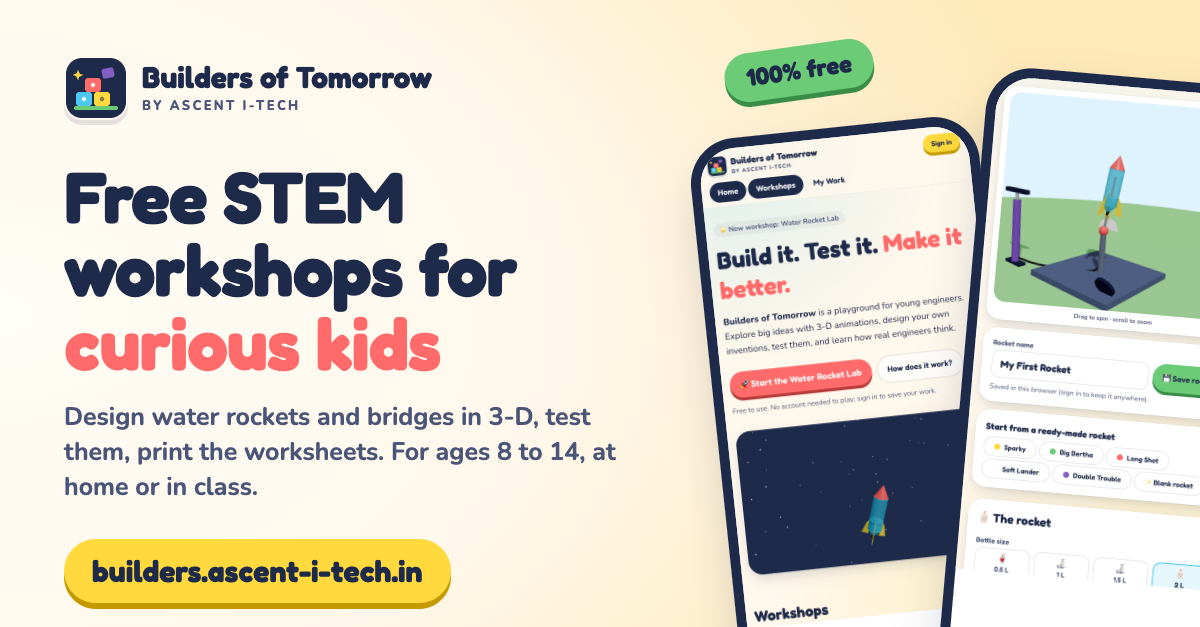
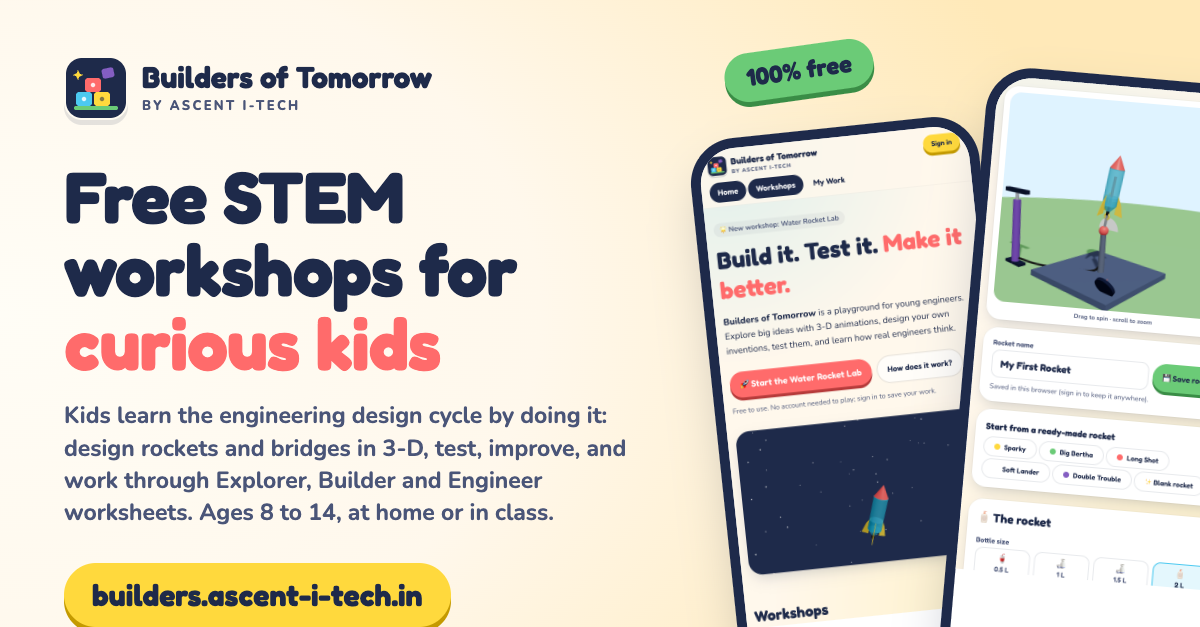
Launch posts: lead with the design cycle and worksheets; "A project by Ascent"
Reel now has a design-cycle scene (Ask, Imagine, Plan, Create, Test,
Improve) and a worksheets scene naming the Explorer, Builder and Engineer
levels; the card footer reads "A project by Ascent Intelligent
Technologies". Caption, LinkedIn post and banner copy expanded to explain
the engineering design cycle and the three worksheet levels.

Changed region(s): [[0.0308, 0.6364, 0.5242, 1.0]]

diff --git a/marketing/launch-2026-10/linkedin-post.md b/marketing/launch-2026-10/linkedin-post.md
@@ -9,23 +9,25 @@ Free STEM workshops for curious kids. Live today: https://builders.ascent-i-tech
 
 At Ascent Intelligent Technologies we have been building something small and useful: Builders of Tomorrow, a free website where children aged 8 to 14 learn how engineers think by actually doing it.
 
-In the Water Rocket Lab they choose a bottle, fins and a nose cone, pump up the pressure and launch a 3-D rocket. Change one thing, launch again, and the fair-test habit builds itself. In Bridge Builder they glue craft sticks into triangles and load the bridge until it creaks, with the forces coloured so they can see which piece is pulled and which is pushed.
+Every workshop is built around the engineering design cycle. Kids ask what the problem is, imagine several answers, plan one, create it, test it and improve it, then go round again. The site walks them through each step with a checklist, and the simulations are where the loop happens: in the Water Rocket Lab they choose a bottle, fins and a nose cone, pump up the pressure and launch a 3-D rocket; change one thing, launch again, and the fair-test habit builds itself. In Bridge Builder they glue craft sticks into triangles and load the bridge until it creaks, with the forces coloured so they can see which piece is pulled and which is pushed.
+
+The worksheets are what make the learning stick. Each workshop has them at three levels: Explorer (Rocket Detective: what makes it fly? Triangle Power), Builder (The Water Experiment, Pressure Power, The Strongest Shape Test) and Engineer (Fair Test and Variables, Budget Engineer, an Engineering Design Journal). They ask children to predict before they test, record what they measured, explain what happened and plan the next improvement. Fill them in on screen, where they save automatically, or print them for a class.
 
 What makes it work for grown-ups:
 
-• 100% free, no ads, no account needed to play
-• Printable worksheets for every workshop, so it fits a classroom or a kitchen table
+• No ads, no cost, no account needed to play
+• Worksheets for every workshop at three levels, so it fits a classroom or a kitchen table
 • Simulations are calibrated against real-world numbers and show their assumptions, so older kids can go deeper into the maths
-• Sign in with an email code (or Google) to save designs; under-13s use a parent or teacher email
+• Sign in with an email code (or Google) to save designs and worksheet answers; under-13s use a parent or teacher email
 
 If you teach, parent or mentor a young builder, I would love you to try it and tell me what breaks or what you would like to see next. More workshops are on the way.
 
 👉 https://builders.ascent-i-tech.in
 
-#STEM #STEMEducation #EdTech #EngineeringForKids #ScienceEducation #Teachers #Parenting #Homeschool #MakerEducation #AscentITech
+#STEM #STEMEducation #EngineeringDesignCycle #EdTech #EngineeringForKids #ScienceEducation #Teachers #Parenting #Homeschool #MakerEducation #AscentITech
 
 ## Short version
 
-Builders of Tomorrow is live: free STEM workshops where kids aged 8 to 14 design water rockets and bridges in 3-D, test them, and print the worksheets. No account needed, no ads. Built by Ascent Intelligent Technologies for classrooms and kitchen tables alike. Try it: https://builders.ascent-i-tech.in 🚀
+Builders of Tomorrow is live: free STEM workshops where kids aged 8 to 14 learn the engineering design cycle by designing water rockets and bridges in 3-D, testing them, and working through Explorer, Builder and Engineer worksheets. No account needed, no ads. A project by Ascent Intelligent Technologies for classrooms and kitchen tables alike. Try it: https://builders.ascent-i-tech.in 🚀
 
 #STEM #EdTech #EngineeringForKids

diff --git a/marketing/launch-2026-10/instagram-caption.md b/marketing/launch-2026-10/instagram-caption.md
@@ -6,21 +6,23 @@
 
 🚀 Build it. Test it. Make it better.
 
-Builders of Tomorrow is a FREE online playground for young engineers (ages 8 to 14). Kids design their own water rocket in 3-D, pump it up and launch it, then build a bridge out of craft sticks and load it until it creaks. Every workshop comes with printable worksheets, so it works on a tablet at home or projected in a classroom.
+Builders of Tomorrow is a free online playground where kids aged 8 to 14 learn how engineers think by doing it. Every workshop follows the engineering design cycle: ask, imagine, plan, create, test, improve, then go round again. Kids design their own water rocket in 3-D, pump it up and launch it, then build a bridge out of craft sticks and load it until it creaks.
 
-✨ 100% free
+The learning sticks because of the worksheets. Each workshop has Explorer, Builder and Engineer levels that ask kids to predict, measure, explain and improve, from "Rocket Detective: what makes it fly?" to a full Engineering Design Journal. Fill them in on screen or print them for the classroom.
+
+🔁 The engineering design cycle, step by step
+📝 Worksheets at three levels, on screen or on paper
 🧒 No account needed to play
-📝 Worksheets for home or school
 👨👩👧 Made for parents and teachers too
 
 Try it today 👉 builders.ascent-i-tech.in (link in bio)
 
-A free project by Ascent Intelligent Technologies.
+A project by Ascent Intelligent Technologies.
 
-#STEM #STEMforKids #KidsWhoCode #ScienceForKids #EngineeringForKids #WaterRocket #BridgeBuilding #HomeschoolScience #STEMeducation #LearningThroughPlay #FutureEngineers #EdTech #MakerKids #ScienceIsFun #BuildersOfTomorrow #AscentITech
+#STEM #STEMforKids #EngineeringDesignCycle #ScienceForKids #EngineeringForKids #WaterRocket #BridgeBuilding #HomeschoolScience #STEMeducation #LearningThroughPlay #Worksheets #FutureEngineers #EdTech #MakerKids #ScienceIsFun #BuildersOfTomorrow #AscentITech
 
 ---
 
 **Shorter alternative (for Stories or a pinned comment):**
 
-Free STEM workshops for curious kids 🚀🌉 Design rockets and bridges in 3-D, test them, print the worksheets. No account needed. builders.ascent-i-tech.in
+Free STEM workshops for curious kids 🚀🌉 Learn the engineering design cycle by designing rockets and bridges in 3-D, testing them and working through Explorer, Builder and Engineer worksheets. No account needed. builders.ascent-i-tech.in

diff --git a/marketing/launch-2026-10/README.md b/marketing/launch-2026-10/README.md
@@ -7,7 +7,7 @@ there is nothing to license).
 
 | File | Use |
 | --- | --- |
-| `instagram-reel.mp4` | Instagram Reel (1080 × 1920, 9:16, ~25 s, H.264 + AAC). Also fine as a LinkedIn video post. |
+| `instagram-reel.mp4` | Instagram Reel (1080 × 1920, 9:16, ~25 s, H.264 + AAC): title, home, design cycle, rocket, bridge build, bridge test, worksheets, end. Also fine as a LinkedIn video post. |
 | `instagram-reel-cover.png` | Reel cover / first frame (title card). |
 | `linkedin-banner-1200x627.png` | Image for the LinkedIn post (LinkedIn's link-preview ratio). |
 | `instagram-caption.md` | Reel caption with hashtags. |
